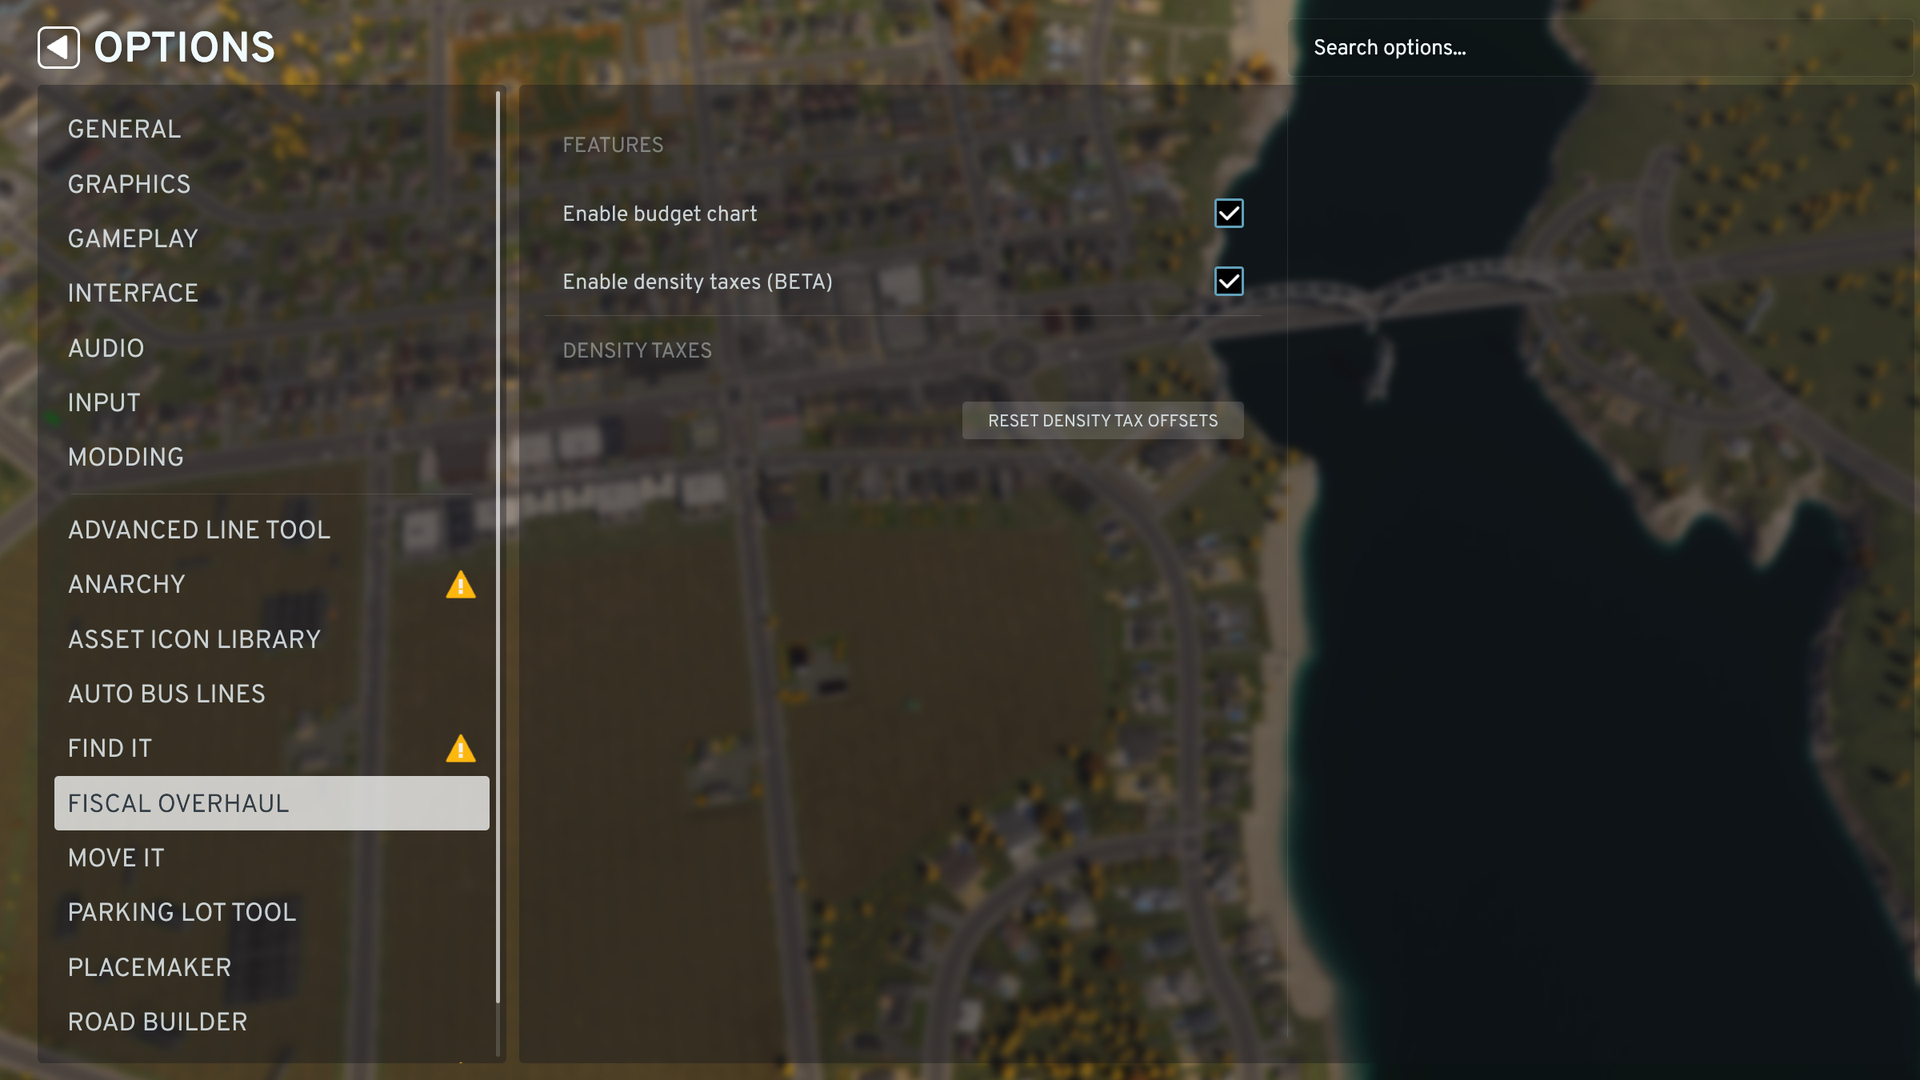
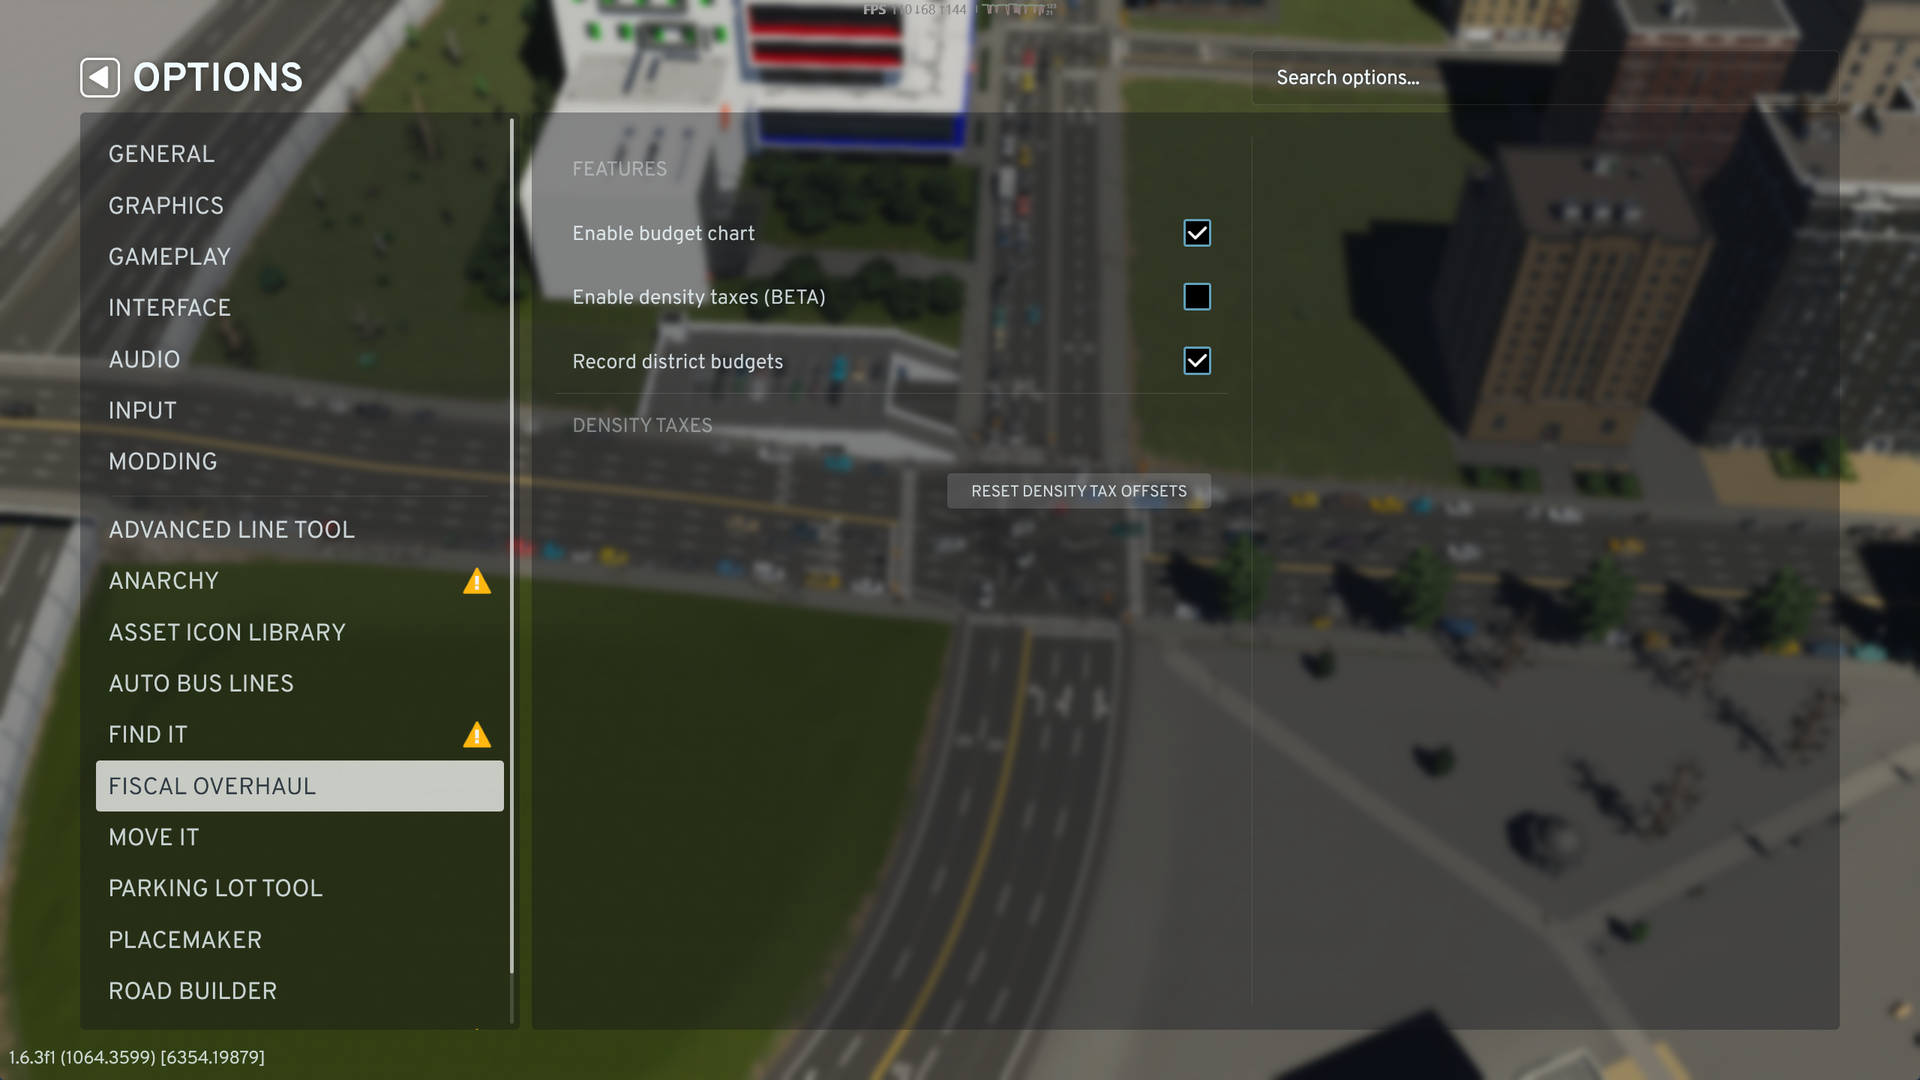
v1.1.0 - Store page: district descriptions and new screenshots (autodev promotion) (#44)
* Budget chart: match the live rate, whole-unit x axis, smaller text, wider chart (#2)

* Budget chart: match the live rate, whole-unit x axis, smaller text, wider chart

- Monthly rate = sample x 32 (the rate at that time), not the trailing-month sum, which lagged the row values.
- X ticks and faint vertical grid lines at whole weeks, months or years back.
- Canvas and tooltip text about 30% smaller.
- Hover detail and stats moved under the filter rows; the chart takes the freed right column.

* Budget chart: live Now point, item detail pop-out, label-fitted y margin, /mo tooltip

- Each series ends on the game's live per-source value, so Now equals the row values.
- Hint box removed; span stats under the rows; vanilla item detail pops out over the chart, away from the cursor.
- Left margin sized to the widest y label; tooltip on one line as "¢57,466/mo".

* Budget chart: a row hover opens the item detail on the chart's left edge, next to the rows

* Budget chart: the item detail pops out only for a row hover, always on the chart's left

A line hover has its tooltip; the side-switching logic is gone.

* Budget chart: untitled two-column span stats; item pop-out anchored inside the chart panel

- Stats lose the title line and sit in two columns, so they fit under the rows.
- The pop-out is pinned to the chart panel's top-left with top and bottom set, so it can't run below the panel.

* Budget chart: full-height item pop-out; the plot moves right past it
[…]

diff --git a/README.md b/README.md
@@ -1,7 +1,8 @@
 # Fiscal Overhaul
 
 A Cities: Skylines II mod that reworks the Economy panel: a line chart of your city's budget history in place of
-the Budget tab's bar chart, and (as an optional beta feature) tax offsets by building density on the Taxation tab.
+the Budget tab's bar chart, for the whole city or any single district, and (as an optional beta feature) tax offsets
+by building density on the Taxation tab.
 
 ![The Budget tab's line chart](Mod/Properties/Screenshots/01-budget-chart.png)
 
@@ -25,6 +26,21 @@ the Budget tab's bar chart, and (as an optional beta feature) tax offsets by bui
 
 ![Hovering a budget row shows the game's own detail panel for it](Mod/Properties/Screenshots/05-budget-vanilla-detail.png)
 
+### Per-district budgets
+
+- **District selector** at the top of the Budget tab: Entire City, each of your districts, or Outside Districts
+  (everything not in a district). Step through them with the arrows either side, or click the name to pick from the
+  list.
+- **Taxes** are what each district's buildings pay, at that district's own rates, so district policies such as Low
+  Commercial Tax are counted.
+- **Service fees and upkeep** are shared out by each district's use. City-wide items (loan interest, map tile upkeep,
+  service trade, subsidies) show under Entire City only.
+- **District history** is recorded from the first time the mod runs on a save, 32 times a month, and kept in the save.
+
+![One district's budget, picked with the selector above the chart](Mod/Properties/Screenshots/06-budget-district.png)
+
+![The district list: Entire City, each district, and Outside Districts](Mod/Properties/Screenshots/07-budget-district-list.png)
+
 ### Taxation tab: tax offsets by density (BETA)
 
 This is a beta feature and is **off by default**: turn it on with **Enable density taxes (BETA)** in Options >
@@ -46,9 +62,11 @@ The mod has its own page in the game's Options menu:
 - **Enable budget chart** (default on). Turned off, the Budget tab is the vanilla one.
 - **Enable density taxes (BETA)** (default off). A beta feature: tick it to get the density rows on the Taxation tab.
   Off, the Taxation tab is the vanilla one and every building pays the vanilla rate; your offsets are kept.
+- **Record district budgets** (default on). Off, nothing new is recorded and the district selector is hidden; what
+  was recorded is kept.
 - **Reset density tax offsets**: sets every density offset back to 0, after a confirmation.
 
-![The Options page, with the budget chart and density taxes (BETA) ticked](Mod/Properties/Screenshots/04-options.png)
+![The Options page: the budget chart, density taxes (BETA) and district recording switches](Mod/Properties/Screenshots/04-options.png)
 
 ## Install
 
@@ -62,15 +80,19 @@ mods or DLC.
 - **Other mods:** Fiscal Overhaul replaces the Economy panel's vanilla `BudgetPage` and extends its `TaxationGroup`.
   Another mod that replaces either of those may conflict with it: one of the two will win. Mods that change how
   households and companies are taxed may interact with the density offsets.
-- **Saves:** the mod stores nothing in your save. The budget history is the game's own statistics, and the density
-  offsets are a global mod setting. Removing the mod is safe: the city goes back to the vanilla panel and the vanilla
-  tax rates.
+- **Saves:** the mod keeps its district history in your save. The city's budget history is the game's own
+  statistics, and the density offsets are a global mod setting. Removing the mod is safe: the save still loads (the
+  game skips the district data), and the city goes back to the vanilla panel and the vanilla tax rates.
 
 ## FAQ
 
 **My new city's chart is short. Is something wrong?**
 No. The chart can only show history the game has recorded; a new city starts with none, and the longer spans fill
 in as months pass.
+
+**Why is a district's chart shorter than the city's?**
+The game keeps budget history only for the whole city. The mod records each district's from the first time it runs on
+a save, so district charts start then.
 
 **Why are my density offsets the same in every city?**
 They are a mod setting, not part of the save, so they apply to every city you play. Per-save offsets may come in a

diff --git a/knowledge/releasing.md b/knowledge/releasing.md
@@ -61,10 +61,12 @@ the `ChangeLog`. The promotion stamps it, so the version on `master` is always t
 - **After a successful release** (not a private test) it tags the built commit `v<version>` (an annotated tag naming
   the mode and access level) and pushes the tag. A failed build or upload tags nothing.
 
-- **Screenshots** live in `Mod/Properties/Screenshots/` (`01-budget-chart.png` ... `05-budget-vanilla-detail.png`),
-  each listed as a `Screenshot` in `PublishConfiguration.xml` in the order the mod page shows them; the README embeds
-  the same files. They are 1920x1080 PNGs (about 1 MB each), cropped from 2560x1440 `game-control.ps1` screenshots
-  around the Economy panel or Options page, then scaled.
+- **Screenshots** live in `Mod/Properties/Screenshots/` (`01-budget-chart.png` ... `07-budget-district-list.png`;
+  the number is when a file was added, not its place on the page), each listed as a `Screenshot` in
+  `PublishConfiguration.xml` in the order the mod page shows them; the README embeds the same files. They are
+  1920x1080 PNGs (about 1 MB each) from `game-control.ps1 screenshot -Window` at 2560x1440: an Economy panel shot is
+  cropped to the 16:9 box (285, 193)-(2275, 1312) around the panel, the Options page is scaled whole. Take them on a
+  paused save that is never saved; a feature switch turned on for a shot (density taxes) goes back as it was.
 
 ## Private test uploads
 
